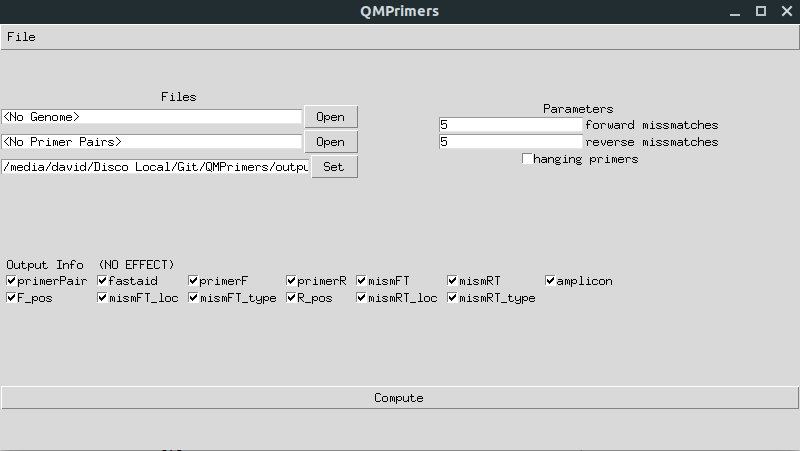
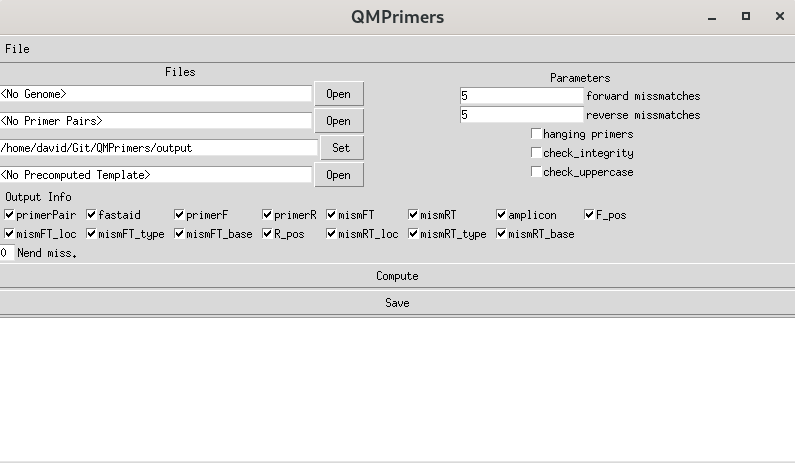
readme updated

diff --git a/README.md b/README.md
@@ -20,16 +20,20 @@ This programm has a command line mode and a GUI mode:
   #Use --help to print a brief manual 
   python3.7 QMPrimers --help
   ```
-  
+
 * GUI mode:
   ```bash
   python3.7 QMPrimers <no options>
   ```
   ![screenshot](./Misc/screenshot.png)
 
-  * **Hanging primers**: mf = forward maximum missmatches, mr = reverse max. miss. 
-  Primer pairs are allowed to match between [0-mf,len(genome)+mr] instead of just between the length of the genome
   * The **primer pairs file** must have the following header. The order does not matter:                        id;forwardPrimer;fPDNA;reversePrimer;rPDNA;ampliconMinLength;ampiconMaxLength
+  * The **output** entry is used to specify the path and name of the output file**s**. The program outputs a template csv file and a text file containing basic statistics.
+  * The **precomputed template** entry is used to load a previous output file in order to bypass the computing. It's possible to load a template created by another program, but, obviously, the same format must be followed. The program doesn't need all the output info to restore the template. When opened the Parameters section becomes hidden.
+  * **Hanging primers**: mf = forward maximum missmatches, mr = reverse max. miss. 
+    Primer pairs are allowed to match between [0-mf,len(genome)+mr] instead of just between the length of the genome
+  * **Check integrity** is used to check if the genome file is correctly formated. The primer pairs file is always checked due to the fact that is expected to be a small file.
+  * **Nend miss.** outputs the number of missmatches in the N first and end nucleotides of the F  and R primer respectively.
 
 
 
